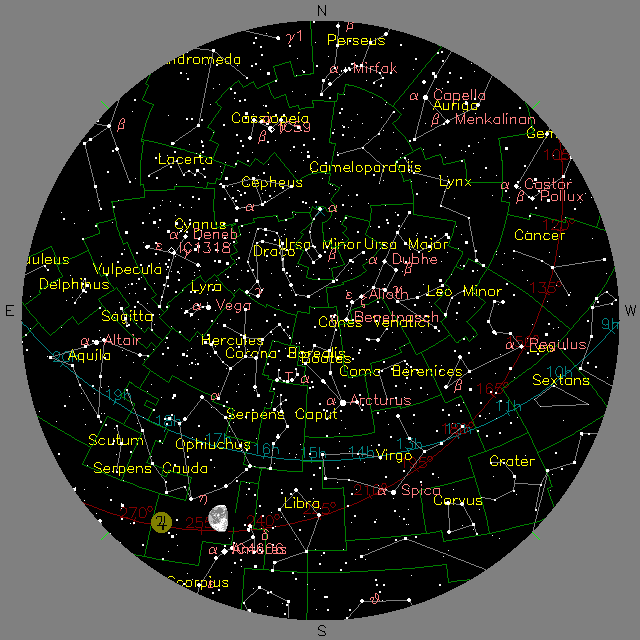
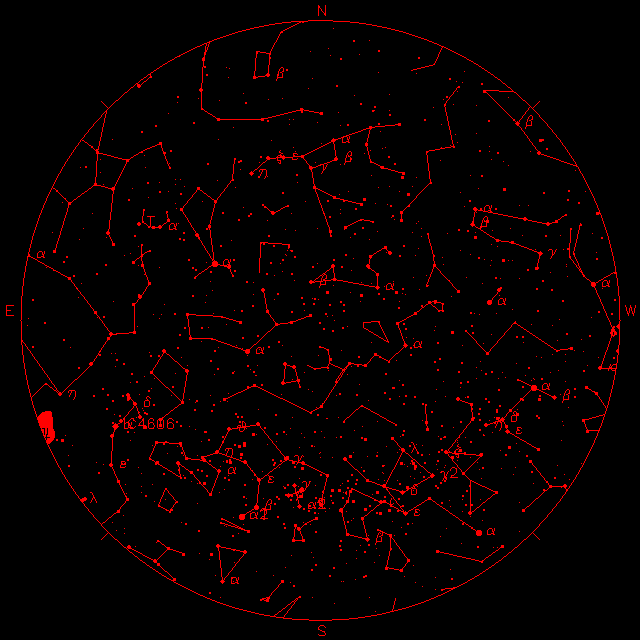
Added map for flags

diff --git a/yourskymech.py b/yourskymech.py
@@ -1,35 +1,59 @@
+from spinner import Spinner
 import sys
 import mechanize as mech
 import requests
 import matplotlib.pyplot as plt
 import matplotlib.image as mpimg
 from PIL import Image
-
-print("ARGS:",str(sys.argv))
+spinner = Spinner() #Make spinner
+spinner.start()
+sys.stdout.flush()
+argc = len(sys.argv)
+print(argc,"ARGS:",str(sys.argv))
 br = mech.Browser()
 br.set_handle_robots(False)   # ignore robots
 res = br.open('http://www.fourmilab.ch/cgi-bin/Yoursky')
 
 link = br.find_link("Customise")
 br.follow_link(link)
-print("URL:",br.geturl())
-
+#print("URL:",br.geturl())
+spinner.stop()
 
 #Selects the form we want
 br.form = list(br.forms())[0]
 
 
+  
 #Set dynimg so we just get an image instd of a map
 control = br.form.find_control("dynimg")
 control.items[0].selected=True
+#Set color scheme
+control = br.form.find_control("scheme")
+control.value=["3"]
+#Disable star names
+br.form.find_control("starn").items[0].selected=False
+#Disable boundaries
+br.form.find_control("constb").items[0].selected=False
+#Disable names
+br.form.find_control("constn").items[0].selected=False
+#Disable coords
+br.form.find_control("coords").items[0].selected=False
 
 #Set lat and lon values
+lat = '0'
+lon = '0'
+if argc > 1:
+  lon = argv[1]
+if argc > 2:
+  lat = argv[2]
 control = br.form.find_control("lat")
-control.value = sys.argv[1]
+control.value = lat
 
 control = br.form.find_control("lon")
-control.value = sys.argv[2]
+control.value = lon
 
+for c in br.form.controls:
+  print(c)
 #submit form
 res = br.submit()
 

diff --git a/pickler.py b/pickler.py
@@ -1,0 +1,40 @@
+import pickle
+
+def save( obj, name ):
+  with open('obj/' + name + '.pkl', 'wb') as f:
+    pickle.dump( obj, f, pickle.HIGHEST_PROTOCOL)
+
+# def load( name ):
+#   with open('obj/' + name + '.pkl', 'rb') as f:
+#     return pickle.load(f)
+# w = load( 'hello' )
+# print(w)
+
+
+dict = {
+  '-d':'date',
+  '-u':'utc',
+  '-j':'jd',
+  '-l':'lat lon', #Signifies lat lon input next
+  '-n':'ns', #Direction of lat
+  '-e':'ew', #Direction of lon
+  '-c':'coords', #On/Off ecliptic and equator
+  '-m':'moonp', #On/Off moon and planets
+  '-d':'deep', #On/Off deep sky objects followed by magnitude value
+  '-co':'conto', #On/Off constellation outlines
+  '-cn':'constn', #OnOff constellation names
+  '-ca':'consta', #On/Off align names with horizon
+  '-cs':'consts', #On/Off abbreviate constellation names
+  '-cb':'constb', #On/Off show constellation bounds
+  '-sm':'limag', #Lower bound for mag of stars displayed
+  '-sn':'starn', #On/Off star names
+  '-snm':'starnm', #Lower bound for mag of named stars
+  '-sb':'starb', #On/Off for Bayer codes 
+  '-sbm':'starbm', #Lower bound for mag of Bayer labeled stars
+  '-i':'flip', #Invert South and North
+  '-is':'imgsize', #Set size of output image
+  '-f':'fontscale', #Set font size
+  '-co':'scheme', #Set scheme (colour, bw, wb, red)
+  }
+save( dict, 'flags' )
+

diff --git a/spinner.py b/spinner.py
@@ -1,0 +1,32 @@
+import sys
+import time
+import threading
+
+class Spinner:
+    busy = False
+    delay = 0.1
+
+    @staticmethod
+    def spinning_cursor():
+        while 1: 
+            for cursor in '|/-\\': yield cursor
+
+    def __init__(self, delay=None):
+        self.spinner_generator = self.spinning_cursor()
+        if delay and float(delay): self.delay = delay
+
+    def spinner_task(self):
+        while self.busy:
+            sys.stdout.write(next(self.spinner_generator))
+            sys.stdout.flush()
+            time.sleep(self.delay)
+            sys.stdout.write('\b')
+            sys.stdout.flush()
+
+    def start(self):
+        self.busy = True
+        threading.Thread(target=self.spinner_task).start()
+
+    def stop(self):
+        self.busy = False
+        time.sleep(self.delay)
